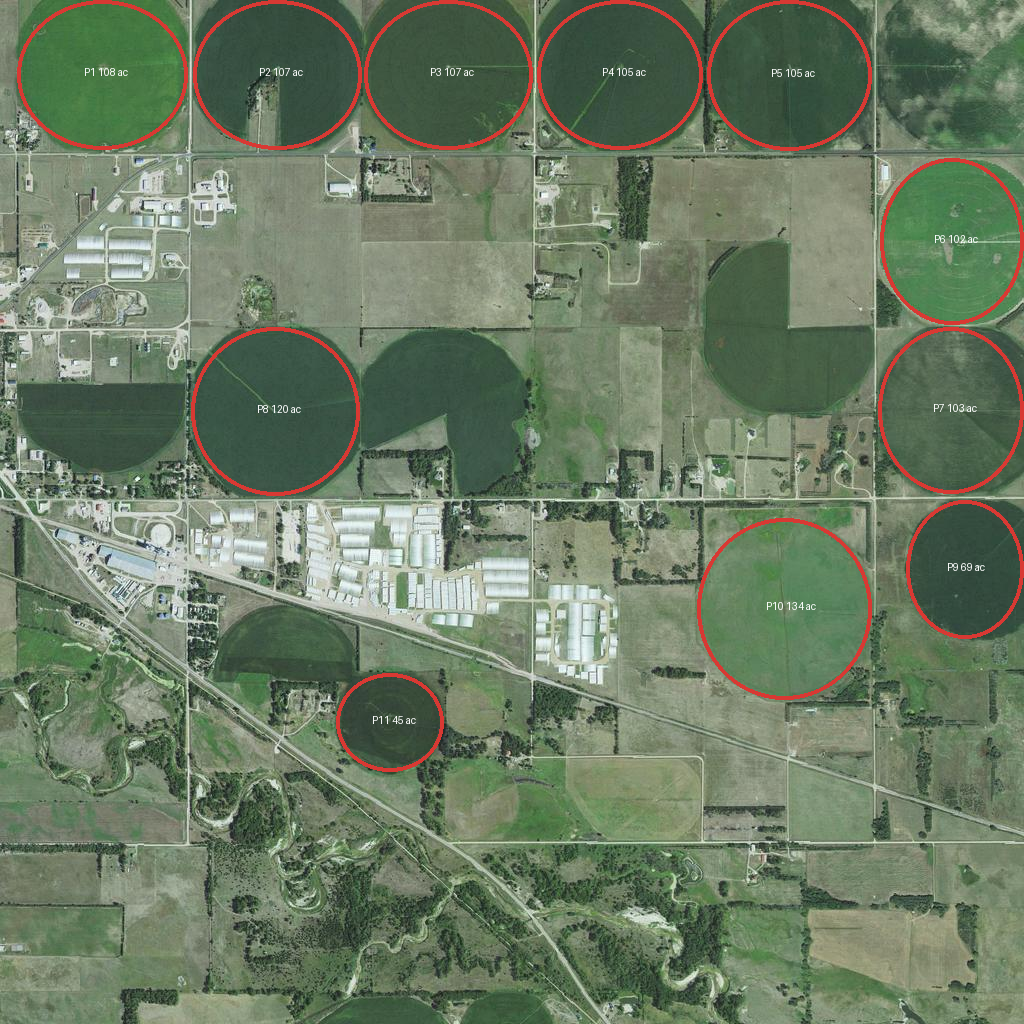
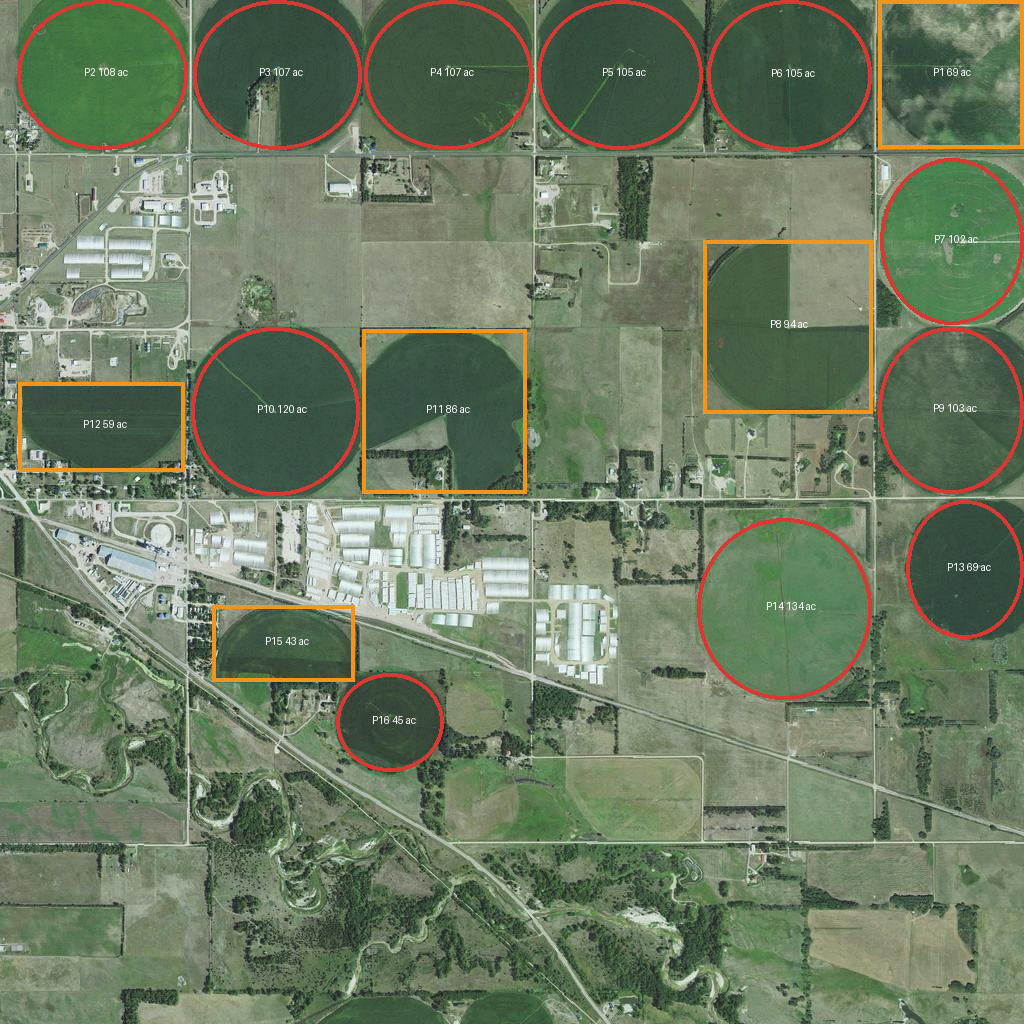
Pivot finder: second SAM 3.1 pass finds part and half circles (Holt test: 16 pivots, was 11)

diff --git a/site/assets/agents.js b/site/assets/agents.js
@@ -7,14 +7,15 @@ const esc = s => String(s ?? "").replace(/[&<>"]/g, c => ({ "&": "&amp;", "<": "
 function pivots(p) {
   if (!p) { $("aPivots").hidden = true; return; }
   $("pivImg").innerHTML = `<img src="data/pivots/${p.stem}.png" alt="Aerial photo with the pivots SAM 3.1 found circled" class="aimg">
-    <div class="note">USDA aerial photo, ${(p.half_m * 2 / 1000).toFixed(1)} km across, near ${p.lat}, ${p.lon}. Red: pivots SAM 3.1 found.</div>`;
-  const tot = p.pivots.reduce((a, q) => a + q.acres, 0);
-  $("pivList").innerHTML = `<div class="step"><b>Asked</b> "${esc(p.phrase)}"</div>
-    <div class="step"><b>Found</b> ${p.pivots.length} pivots, ${tot.toLocaleString()} irrigated acres</div>
-    <table><thead><tr><th>Pivot</th><th>Acres</th><th>Across</th><th>Centre</th></tr></thead><tbody>
-    ${p.pivots.map((q, k) => `<tr><td>P${k + 1}</td><td>${q.acres}</td><td>${q.diameter_m} m</td><td>${q.lat}, ${q.lon}</td></tr>`).join("")}</tbody></table>
+    <div class="note">USDA aerial photo, ${(p.half_m * 2 / 1000).toFixed(1)} km across, near ${p.lat}, ${p.lon}. Red: full circles.
+      Orange: part and half circles, found by a second question to SAM 3.1.</div>`;
+  const tot = p.pivots.reduce((a, q) => a + q.acres, 0), part = p.pivots.filter(q => q.shape).length;
+  $("pivList").innerHTML = `<div class="step"><b>Asked</b> "${esc(p.phrase)}"${p.phrase_partial ? `, then "${esc(p.phrase_partial)}"` : ""}</div>
+    <div class="step"><b>Found</b> ${p.pivots.length} pivots${part ? ` (${part} part or half circles)` : ""}, ${tot.toLocaleString()} irrigated acres</div>
+    <table><thead><tr><th>Pivot</th><th>Acres</th><th>Shape</th><th>Across</th><th>Centre</th></tr></thead><tbody>
+    ${p.pivots.map((q, k) => `<tr><td>P${k + 1}</td><td>${q.acres}${q.acres_estimated ? "*" : ""}</td><td>${esc(q.shape || "full circle")}</td><td>${q.diameter_m} m</td><td>${q.lat}, ${q.lon}</td></tr>`).join("")}</tbody></table>
     <p class="note">The farm file this makes goes straight to the operator agent below. Crop, soil and pivot capacity start as guesses for the farmer
-      to correct. Partly planted circles (a corner cut out for a farmyard) aren't picked up yet.</p>`;
+      to correct. *Acres estimated from the box (about 3/4 of the circle for a part circle, half for a half circle): the farmer confirms them.</p>`;
 }
 
 function operator(o) {

diff --git a/flashwatch/agent/pivots.py b/flashwatch/agent/pivots.py
@@ -4,8 +4,11 @@
 
 Fetches a USDA NAIP aerial image (public domain, USGS National Map image service) centred on the farm,
 asks SAM 3.1 to segment "center pivot irrigation circle", and turns each circular detection into a pivot:
-its centre (lat, lon), diameter and irrigated acres (a full circle, pi r^2). Boxes are enough for that, so
-masks aren't decoded. Writes data/agent/pivots/<lat>_<lon>.json and an annotated image beside it.
+its centre (lat, lon), diameter and irrigated acres (a full circle, pi r^2). A second pass asks for crop
+fields shaped like a circle or part of one, which finds the pivots the first pass misses: circles with a
+slice left out for a farmyard or a road (a square box: about three quarters of the circle's acres), and
+half circles (a box twice as long as wide). Their acres are estimates from the box, marked for the farmer to
+check. Boxes are enough for this, so masks aren't decoded. Writes data/agent/pivots/<lat>_<lon>.json and an annotated image beside it.
 Request and response format: dev.meta.ai/docs/sam (Responses API, streamed box and mask records).
 """
 
@@ -25,6 +28,7 @@ from flashwatch.config import DATA, load_env
 NAIP = "https://imagery.nationalmap.gov/arcgis/rest/services/USGSNAIPImagery/ImageServer/exportImage"
 R_EARTH = 6378137.0
 PHRASE = "center pivot irrigation circle"
+PARTIAL = "crop field shaped like a circle or part of a circle"
 M2_PER_ACRE = 4046.86
 BOX = re.compile(r"<\|box;([^|]*)\|>")
 
@@ -88,6 +92,40 @@ def to_pivots(bx: list[dict], lat: float, lon: float, half_m: float = 2400) -> l
     return sorted(pivots, key=lambda p: (-p["lat"], p["lon"]))
 
 
+def _iou(a, b) -> float:
+    ix = max(0, min(a[2], b[2]) - max(a[0], b[0]))
+    iy = max(0, min(a[3], b[3]) - max(a[1], b[1]))
+    inter = ix * iy
+    return inter / ((a[2] - a[0]) * (a[3] - a[1]) + (b[2] - b[0]) * (b[3] - b[1]) - inter)
+
+
+def to_partial(bx: list[dict], found: list[dict], lat: float, lon: float, half_m: float = 2400) -> list[dict]:
+    """Detections from the second pass that the circle pass didn't find: part circles (square box, about 3/4
+    of the circle's acres) and half circles (box about 2:1; the long side is the diameter)."""
+    out = []
+    for b in bx:
+        box = [b["x1"], b["y1"], b["x2"], b["y2"]]
+        if any(_iou(box, p["box_px"]) > 0.4 for p in found + out):
+            continue
+        mpp = 2 * half_m / b["w"]
+        wm, hm = (b["x2"] - b["x1"]) * mpp, (b["y2"] - b["y1"]) * mpp
+        edge = min(box) <= 1 or max(box[2] - b["w"], box[3] - b["h"]) >= -2
+        r = max(wm, hm) / max(min(wm, hm), 1)
+        if r <= 1.25 and 150 <= wm <= 1000:
+            d, share, shape = (wm + hm) / 2, 0.75, "at the photo's edge" if edge else "part circle"
+        elif 1.6 <= r <= 2.4 and 150 <= max(wm, hm) <= 1000 and not edge:
+            d, share, shape = max(wm, hm), 0.5, "half circle"
+        else:
+            continue
+        cx, cy = (b["x1"] + b["x2"]) / 2, (b["y1"] + b["y2"]) / 2
+        dn, de = (b["h"] / 2 - cy) * mpp, (cx - b["w"] / 2) * mpp
+        out.append({"lat": round(lat + dn / 111320, 5), "lon": round(lon + de / (111320 * math.cos(math.radians(lat))), 5),
+                    "diameter_m": round(d), "acres": round(share * math.pi * (d / 2) ** 2 / M2_PER_ACRE),
+                    "shape": shape, "acres_estimated": True,
+                    "box_px": [int(x) for x in box], "confidence": b.get("c")})
+    return out
+
+
 def annotate(image: bytes, pivots: list[dict], path) -> None:
     import io
     from PIL import Image, ImageDraw
@@ -95,7 +133,10 @@ def annotate(image: bytes, pivots: list[dict], path) -> None:
     dr = ImageDraw.Draw(im)
     for k, p in enumerate(pivots, 1):
         x1, y1, x2, y2 = p["box_px"]
-        dr.ellipse([x1, y1, x2, y2], outline=(216, 57, 51), width=4)
+        if p.get("shape"):                              # part or half circle: its box, in orange
+            dr.rectangle([x1, y1, x2, y2], outline=(240, 150, 30), width=4)
+        else:
+            dr.ellipse([x1, y1, x2, y2], outline=(216, 57, 51), width=4)
         dr.text(((x1 + x2) / 2 - 18, (y1 + y2) / 2 - 8), f"P{k} {p['acres']} ac", fill=(255, 255, 255))
     im.save(path)
 
@@ -111,15 +152,17 @@ def farm_config(res: dict, place: str) -> dict:
 
 def find(lat: float, lon: float, half_m: float = 2400) -> dict:
     img = naip(lat, lon, half_m)
-    text = segment(img)
-    bx = boxes(text)
+    bx = boxes(segment(img))
     piv = to_pivots(bx, lat, lon, half_m)
+    extra = boxes(segment(img, PARTIAL))
+    piv = sorted(piv + to_partial(extra, piv, lat, lon, half_m), key=lambda p: (-p["lat"], p["lon"]))
     out = DATA / "agent" / "pivots"
     out.mkdir(parents=True, exist_ok=True)
     stem = f"{lat:.3f}_{lon:.3f}"
     (out / f"{stem}.jpg").write_bytes(img)
     annotate(img, piv, out / f"{stem}_pivots.png")
-    res = {"lat": lat, "lon": lon, "half_m": half_m, "phrase": PHRASE, "detections": len(bx), "pivots": piv,
+    res = {"lat": lat, "lon": lon, "half_m": half_m, "phrase": PHRASE, "phrase_partial": PARTIAL,
+           "detections": len(bx) + len(extra), "pivots": piv,
            "image": "USDA NAIP via USGS National Map (public domain)"}
     (out / f"{stem}.json").write_text(json.dumps(res, indent=1))
     # For the site: the result and the annotated image (NAIP is public domain).
@@ -140,7 +183,8 @@ def main():
     r = find(a.lat, a.lon, a.half)
     print(f"{r['detections']} detections, {len(r['pivots'])} pivots:")
     for k, p in enumerate(r["pivots"], 1):
-        print(f"  P{k}: {p['acres']} acres, {p['diameter_m']} m across, at {p['lat']}, {p['lon']}")
+        print(f"  P{k}: {p['acres']} acres{' (' + p['shape'] + ', estimated)' if p.get('shape') else ''}, "
+              f"{p['diameter_m']} m across, at {p['lat']}, {p['lon']}")
 
 
 if __name__ == "__main__":

diff --git a/tests/test_connect.py b/tests/test_connect.py
@@ -189,3 +189,16 @@ def test_pivot_finder_reads_sam_boxes():
     piv = to_pivots(bx, 42.45, -98.6, half_m=2400)
     assert len(piv) == 1 and 100 < piv[0]["acres"] < 130
     assert piv[0]["lat"] > 42.45 and piv[0]["lon"] < -98.6        # upper-left of the image centre
+
+
+def test_second_pass_adds_part_and_half_circles_but_not_repeats():
+    from flashwatch.agent.pivots import to_partial, to_pivots
+    W = {"w": 1024, "h": 1024}                                   # 4.8 km photo: 4.69 m per pixel
+    full = to_pivots([{"x1": 100, "y1": 100, "x2": 260, "y2": 260, **W}], 42.0, -98.0)
+    extra = to_partial([{"x1": 102, "y1": 98, "x2": 262, "y2": 258, **W},       # the same circle again
+                        {"x1": 400, "y1": 400, "x2": 560, "y2": 560, **W},      # part circle
+                        {"x1": 600, "y1": 600, "x2": 760, "y2": 680, **W},      # half circle (2:1)
+                        {"x1": 300, "y1": 800, "x2": 340, "y2": 990, **W}],     # a strip: not a pivot
+                       full, 42.0, -98.0)
+    assert [p["shape"] for p in extra] == ["part circle", "half circle"]
+    assert extra[0]["acres"] == round(0.75 * full[0]["acres"]) and abs(extra[1]["acres"] - full[0]["acres"] / 2) <= 1

diff --git a/docs/writeup.md b/docs/writeup.md
@@ -37,8 +37,9 @@ So the question an irrigator faces every summer morning is simple: *start the pi
 - **Agents on Meta's models**, each working through tools and checked before anything reaches the
   farmer or a pivot:
   - *Pivot finder (SAM 3.1).* From the farm's location, a USDA aerial photo; SAM 3.1 finds every
-    centre-pivot circle; each becomes a pivot with its acres. In a Holt County, Nebraska test it found
-    the 11 full circles in a 4.8 km square.
+    centre-pivot circle; each becomes a pivot with its acres. A second question to SAM ("crop field shaped like a
+    circle or part of a circle") picks up the circles with a slice left out and the half circles. In a
+    Holt County, Nebraska test: the 11 full circles in a 4.8 km square, plus 4 part and half circles.
   - *Operator (Muse Spark).* For a farm with several pivots it reads each pivot's advice, water account,
     well and allocation and any voice note, and proposes starts and stops. Fixed farm rules check every
     command (well capacity, allocation, season, the advice); refusals go back to the agent with the
@@ -138,7 +139,7 @@ ERA5-Land soil, rain, heat (as of each forecast date)     ECMWF extended-range e
   open start/stop API; Leaf can read FieldNET's irrigation data today.
 - The water account uses daily means (ERA5-Land has no daily max and min here) and the FAO default wind;
   a farm's own rain gauge and weather station would sharpen it.
-- The pivot finder misses partial circles (a corner cut out for a farmyard).
+- The pivot finder estimates a part circle's acres from its box (masks not decoded yet).
 
 ## Built with
 
